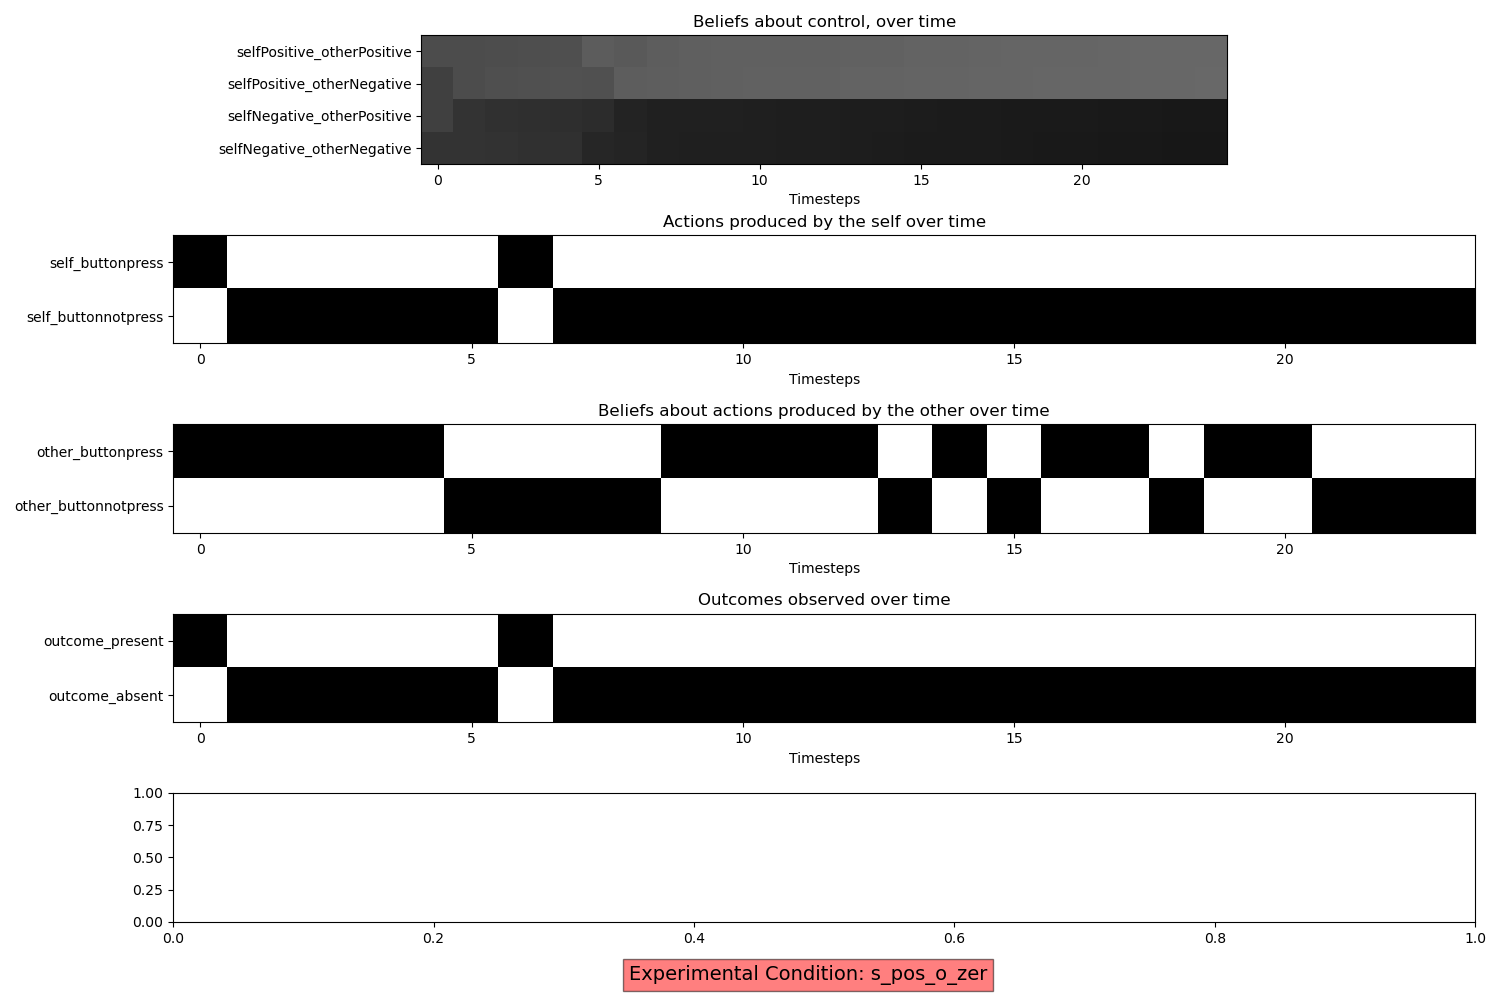
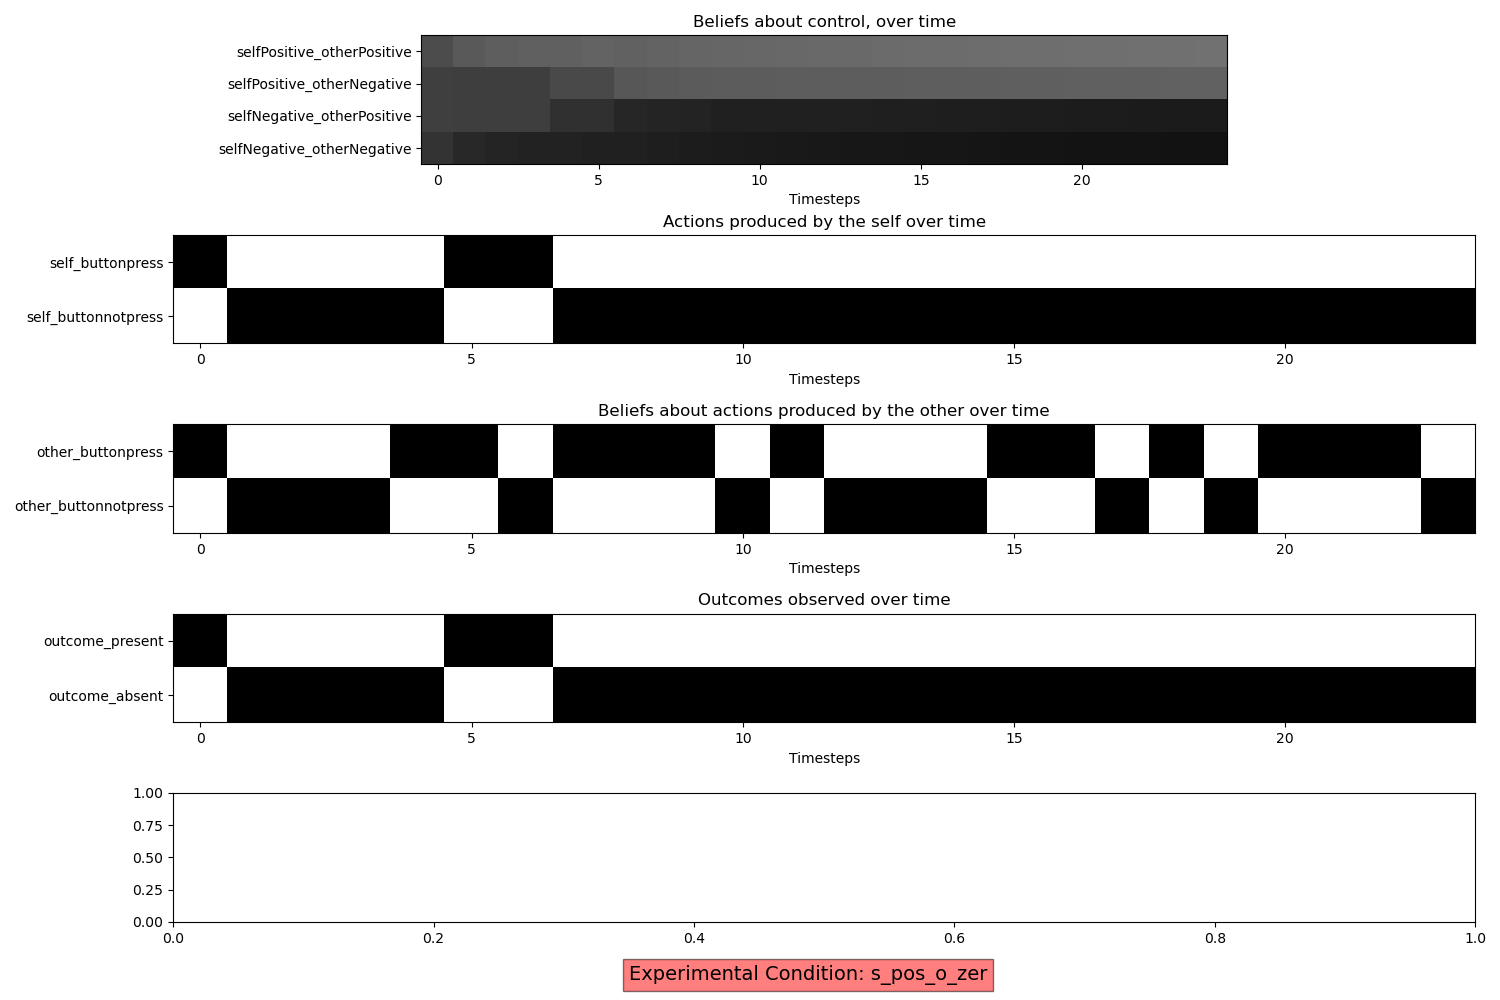
Experiment 2024-03-20-13-15-22

diff --git a/agency_twoagents_v2.py b/agency_twoagents_v2.py
@@ -189,13 +189,16 @@ def create_D():
     D = utils.obj_array(num_factors)
     
     D_context = np.ones(num_states[0])/float(num_states[0])
-    
+    D_context = np.array([0, 5, 5, 0])
+
     D_self_action = np.ones(num_states[1])/float(num_states[1])
     
     D_other_action = np.ones(num_states[2])/float(num_states[2])
 
     D[0], D[1], D[2] = D_context, D_self_action, D_other_action
     
+    D = utils.norm_dist_obj_arr(D)
+
     return D
 
 class AgencyTask(object):
@@ -474,27 +477,27 @@ def evaluate_p_self_action(log):
 
 ##################### TESTING #####################
 
-# p_outcome_env = 1.0
-# p_other_action_env = 0.5
-# expcondition = "s_pos_o_zer"
-# #  "s_zer_o_neg", "s_neg_o_zer", "s_zer_o_zer", "s_pos_o_zer", "s_zer_o_pos"
+p_outcome_env = 1.0
+p_other_action_env = 0.5
+expcondition = "s_pos_o_zer"
+#  "s_zer_o_neg", "s_neg_o_zer", "s_zer_o_zer", "s_pos_o_zer", "s_zer_o_pos"
 
-# env = AgencyTask(expcondition = expcondition, p_other_action_env = p_other_action_env, p_outcome_env = p_outcome_env)
+env = AgencyTask(expcondition = expcondition, p_other_action_env = p_other_action_env, p_outcome_env = p_outcome_env)
 
-# T = 25
+T = 25
 
-# A,A_factor_list,pA = create_A(p_outcome = 0.6)
-# B = create_B()
-# C = create_C(outcomepref = 5.0, actionpref = 0.0, noactionpref = 1.0)
-# D = create_D()
-# my_agent = Agent(A=A, B=B, C=C, D=D, A_factor_list=A_factor_list,
-#                  pA=pA, control_fac_idx=controllable_indices,
-#                  modalities_to_learn=learnable_modalities,
-#                  lr_pA=1.0, use_param_info_gain=True)
+A,A_factor_list,pA = create_A(p_outcome = 0.6)
+B = create_B()
+C = create_C(outcomepref = 5.0, actionpref = 0.0, noactionpref = 1.0)
+D = create_D()
+my_agent = Agent(A=A, B=B, C=C, D=D, A_factor_list=A_factor_list,
+                 pA=pA, control_fac_idx=controllable_indices,
+                 modalities_to_learn=learnable_modalities,
+                 lr_pA=1.0, use_param_info_gain=True)
 
-# log = run_active_inference_loop(my_agent, env, T = T, verbose = False)
+log = run_active_inference_loop(my_agent, env, T = T, verbose = False)
 
-# plot_all_choices_beliefs(log, env, savefig = 1, fig_file_name = "test.png")
+plot_all_choices_beliefs(log, env, savefig = 1, fig_file_name = "test.png")
 
 
 ##################### STORAGE #####################
